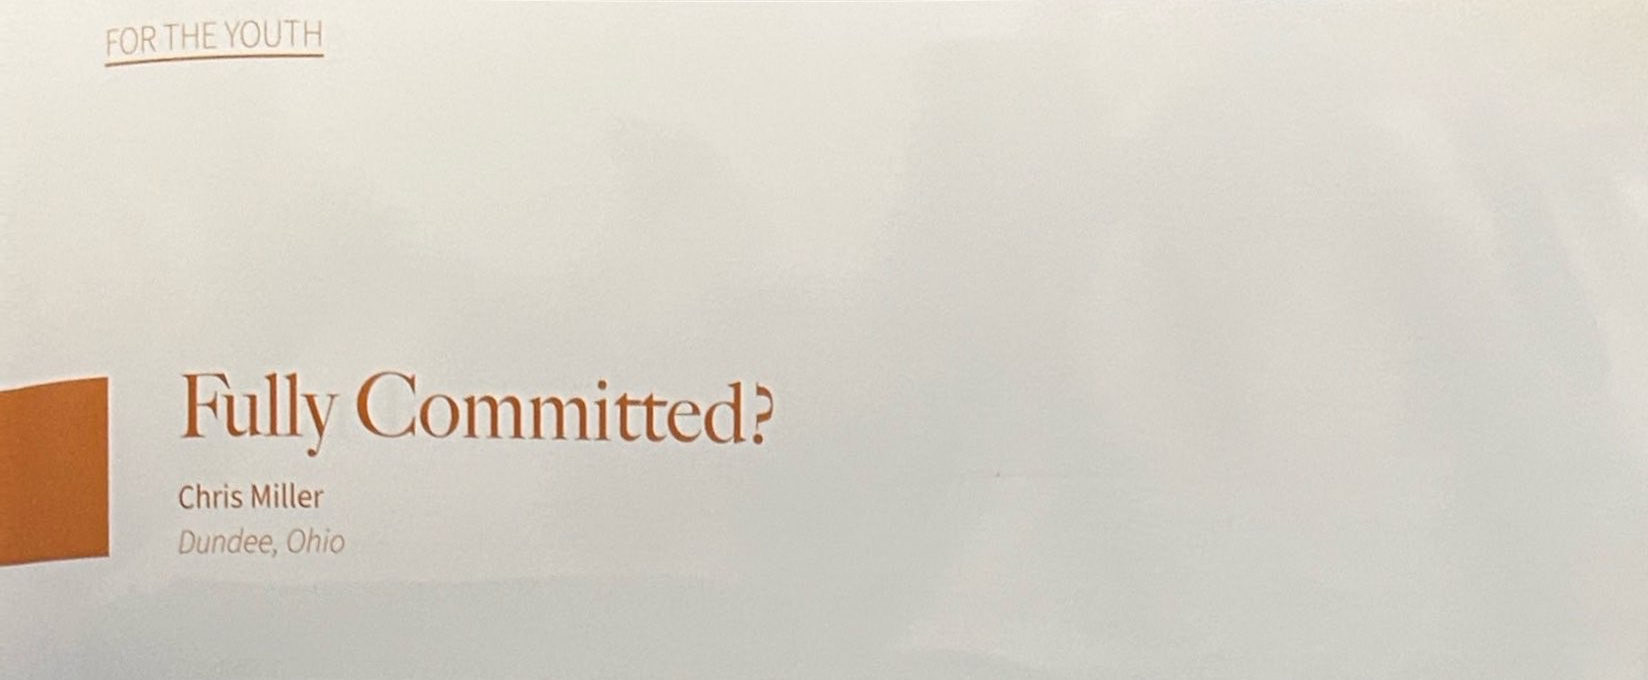
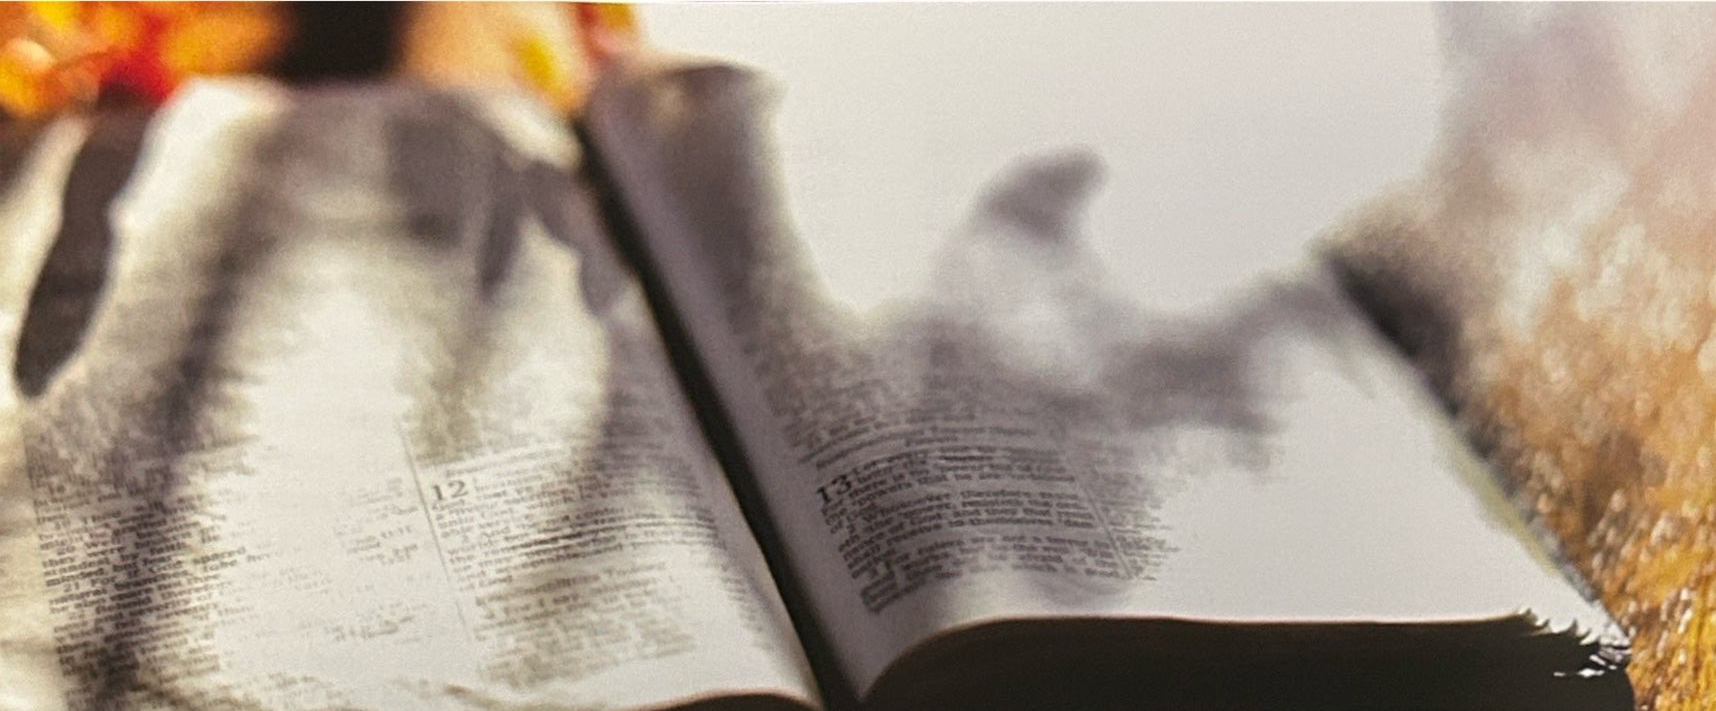
Correct Autumn 2025 article images

diff --git a/content/articles/f24b8d7f-e7f8-4d1a-8769-75beff728b5e.html b/content/articles/f24b8d7f-e7f8-4d1a-8769-75beff728b5e.html
@@ -1,7 +1,4 @@
 <article data-article-id="f24b8d7f-e7f8-4d1a-8769-75beff728b5e">
-  <figure>
-    <img src="/images/articles/f24b8d7f-e7f8-4d1a-8769-75beff728b5e-1.jpg" alt="Faint printed background behind the article heading.">
-  </figure>
   <p><em>Let no man despise thy youth: but be thou an example of the believers, in word, in conversation, in charity, in spirit, in faith, in purity (1 Timothy 4:12).</em></p>
   <p>It was just a few years ago when I remember lying in bed at night with lots of questions about what my future would hold, wondering what God has in store for my life, wondering how I can best serve Him, and be involved in His kingdom. This is a normal thing for youth with young minds, lots of ambition, and a whole life ahead of us. You are not abnormal when you face these questions.</p>
   <h2>The time to start preparing for your future is NOW!</h2>
@@ -12,7 +9,7 @@
   <p>Our Christian life and our personal walk with God are very similar. But I’m afraid that at times we take it too lightly and are not serious enough. When we decide to commit our lives to Christ, we are joining a heavenly kingdom. We are committed to joining the battle in winning souls back to him, to live lives that are pure, holy, without sin, that bring honor and Glory to Jesus Christ! So the question must be asked: without <strong>goals and commitments,</strong> will we be able to remain faithful in that heavenly kingdom? What is it that will keep us on that straight and narrow path that Jesus talks about in Matthew 7:13–14? ”Enter ye in at the strait gate: for wide is the gate, and broad is the way, that leadeth to destruction, and many there be which go in thereat: Because strait is the gate, and narrow is the way, which leadeth unto life, and few there be that find it.”</p>
   <p>My desire is that our thoughts would be stirred, and we would be able to do some self-examination and see if where we are headed is taking us where we want to go. If we don’t, we are like a boat floating down the river—the outcome is inevitable. The currents of the world we face today are only getting stronger and are leading many people astray. “Wherefore seeing we also are compassed about with so great a cloud of witnesses, let us lay aside every weight, and the sin which doth so easily beset us, and let us run with patience the race that is set before us, Looking unto Jesus the author and finisher of our faith; who for the joy that was set before him endured the cross, despising the shame, and is set down at the right hand of the throne of God” (Hebrews 12:1–2). Have you joined the race? Are there weights and besetting sins in your life? What does it mean to lay aside every weight? Is it possible to be <strong><em>free</em></strong> from sin? Are there things in your life that are holding you back, things that are distracting you from doing what you know God wants you to be doing? It is very important for us to be able to identify those things and ask God to show us the things that are hindering us from being completely and fully surrendered to him. Take a moment to think and meditate on those questions and consider the direction of your life.</p>
   <figure>
-    <img src="/images/articles/f24b8d7f-e7f8-4d1a-8769-75beff728b5e-2.jpg" alt="An open Bible in sunlight with shadows across its pages.">
+    <img src="/images/articles/f24b8d7f-e7f8-4d1a-8769-75beff728b5e-1.jpg" alt="An open Bible in sunlight with shadows across its pages.">
   </figure>
   <p>Coming back to the story I mentioned earlier about myself, I’ve made changes and committed to not getting involved like I did before because of how it was affecting my spiritual life. I have found it refreshing and a blessing to pull away from the kingdom of this world and to find an accountability partner. We share together how we are doing in this area, as well as other areas of our spiritual life.</p>
   <p>If we are going to remain faithful, we <em>must</em> have strong <strong>commitments</strong> and a continual focus on the <strong>goal</strong> because without a vision the people perish. “Flee also youthful lusts: but follow righteousness, faith, charity, peace, with them that call on the lord out of a pure heart” (2 Timothy 2:22).</p>

diff --git a/content/articles/b13f8ad8-4af6-41aa-a5a1-2d9a237e1721.html b/content/articles/b13f8ad8-4af6-41aa-a5a1-2d9a237e1721.html
@@ -1,6 +1,6 @@
 <article data-article-id="b13f8ad8-4af6-41aa-a5a1-2d9a237e1721">
   <figure>
-    <img src="/images/articles/b13f8ad8-4af6-41aa-a5a1-2d9a237e1721-1.jpg" alt="Two young foxes among green grass, with the article title and byline printed above them.">
+    <img src="/images/articles/b13f8ad8-4af6-41aa-a5a1-2d9a237e1721-1.jpg" alt="A young fox standing beside a rock in green grass.">
   </figure>
   <p>We find an account in Numbers 25, where the children of Israel lament the judgment of God before the tabernacle, when one of the children of Israel brought a Midianitish woman into the camp in front of all his brethren. The Bible says that when Phinehas saw it, he sprang into action. Rising up, he took a javelin in his hand, went into the tent, and thrust both of them through.</p>
   <p>Here’s some background on this account. The children of Israel were camped in the valley of Moab. King Balaak of Moab was extremely afraid when he saw such a large number of soldiers camped in his valley. He knew he couldn’t defeat this mighty army because they were much stronger than he was. He saw all that Israel had done to the Amorites, and the Bible says Balaak was very afraid. Like the enemies of the church today, Balaak devised a plan. He went to the soothsayer Balaam and offered him great wealth and position if he would simply come with him and curse the children of Israel. The Bible says that Balaam loved the wages of unrighteousness, so he was all game. He consulted with God, but God told him not to go. Then King Balaak sent wiser, more dignified men to ask Balaam again. Once more, Balaam asked God for direction.</p>
